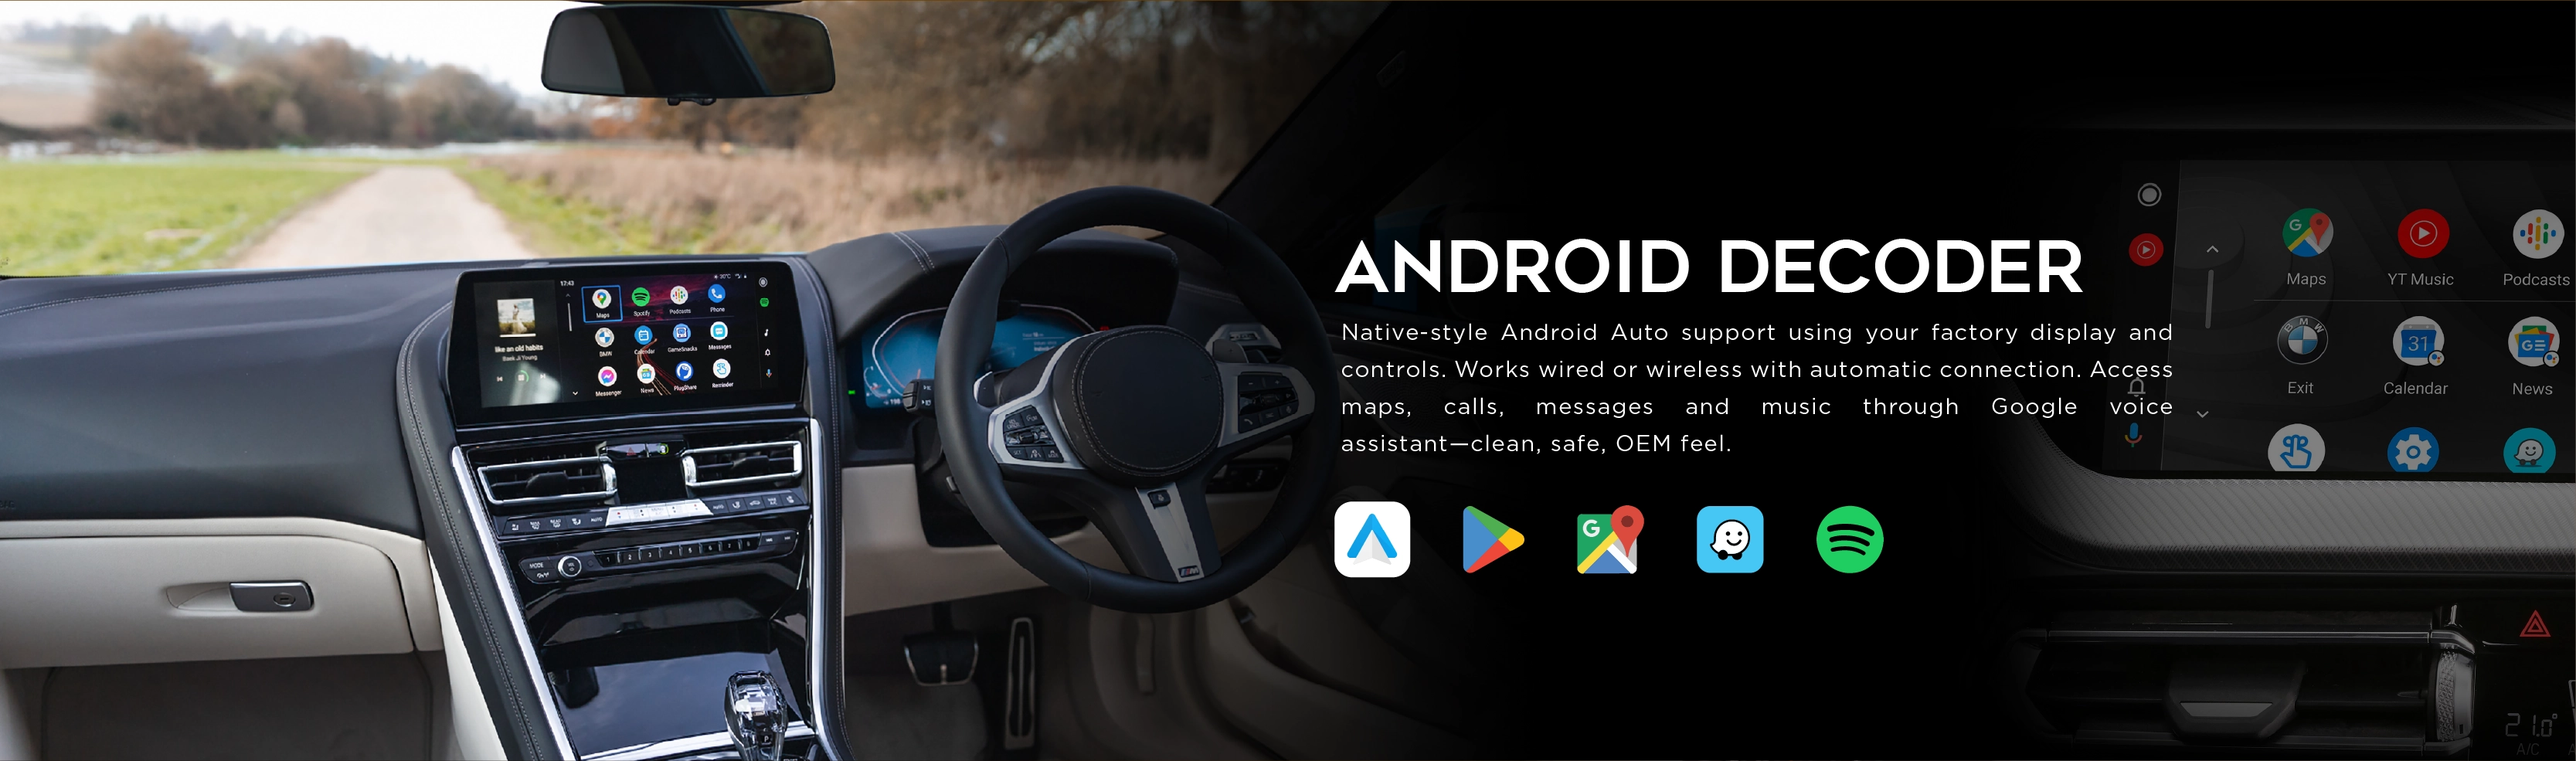
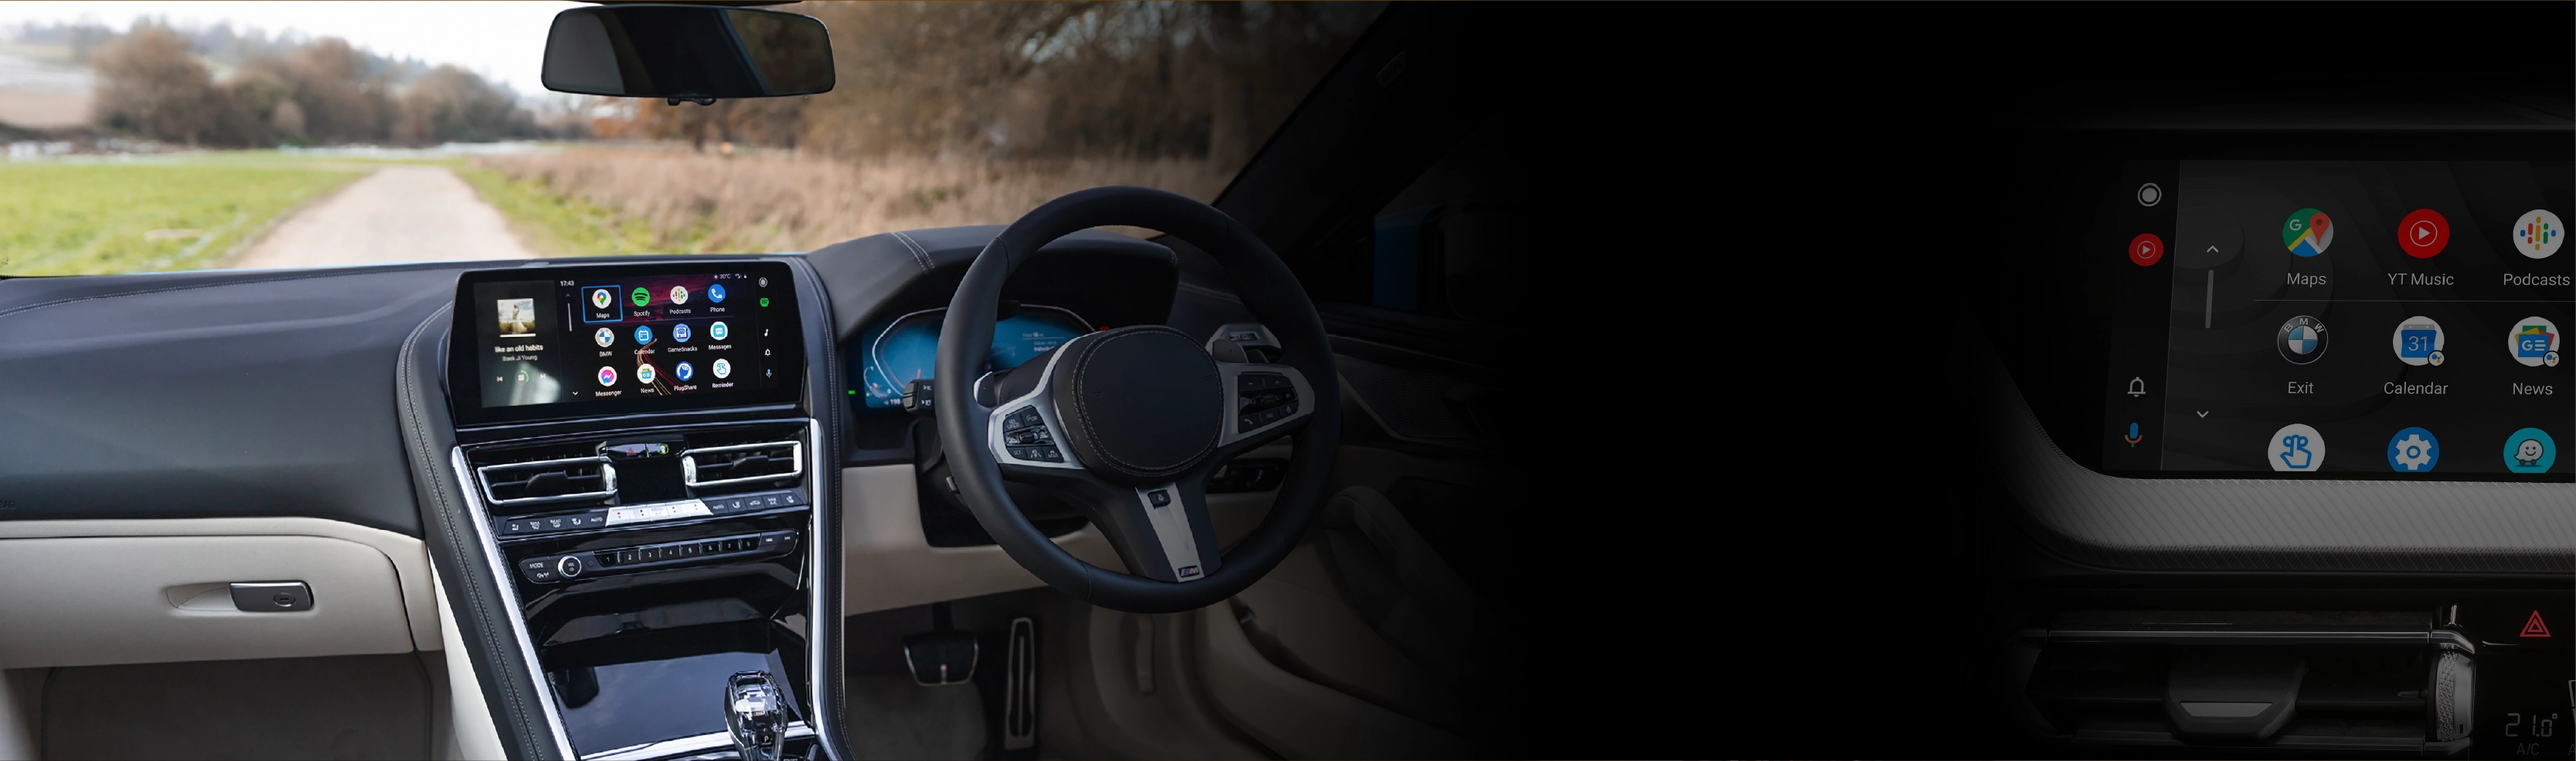
save

diff --git a/src/app/contidecoder/page.js b/src/app/contidecoder/page.js
@@ -65,13 +65,34 @@ export default function ContiDecoderPage() {
           <figure className="relative">
             <Image
               unoptimized
-              src="/contidecoder/pc/conti-decoder-main.webp"
+              src="/contidecoder/pc/CONTI DECODER PAGE 2-01.webp"
               alt="Conti Decoder - Advanced Car Decoding System"
               width={1200}
               height={800}
               className="w-full h-auto"
               priority
             />
+            
+            <div className="hidden md:flex absolute inset-0 flex-col justify-center items-start px-[8%] md:px-[10%] w-[90%] md:w-[55%] lg:w-[48%]">
+              <h1
+                className="font-bold text-white mb-2 lg:mb-4 tracking-wide whitespace-nowrap"
+                style={{ fontFamily: 'Geometos, sans-serif', fontSize: '2.5vw', lineHeight: '1.2' }}
+              >
+                CONTI DECODER &<br />360° INTERFACE
+              </h1>
+              <h2
+                className="text-white mb-3 lg:mb-5"
+                style={{ fontFamily: 'Gotham-Book, Gotham, sans-serif', fontSize: '1.25vw', lineHeight: '1.4' }}
+              >
+                OEM-Grade image decoding and surround-view integration for modern automotive systems.
+              </h2>
+              <p
+                className="text-gray-200 text-justify"
+                style={{ fontFamily: 'Gotham-Book, Gotham, sans-serif', fontSize: '1.15vw', lineHeight: '1.6' }}
+              >
+                Decoder Box is a retrofit CarPlay and Android Auto kit that adds CarPlay and Android Auto functionality to your factory vehicle. The kit provides an OEM look and experience, as it retains the original dashboard display and supports your existing SMEG/MRN controls, including the rotary controller and steering wheel buttons.
+              </p>
+            </div>
             <figcaption className="sr-only">
               Conti Decoder presents the ultimate car decoding solution for modern vehicles.
             </figcaption>
@@ -86,6 +107,20 @@ export default function ContiDecoderPage() {
               height={800}
               className="w-full h-auto"
             />
+            <div className="hidden md:flex absolute inset-0 flex-col justify-center items-start left-[50%] w-[45%] pr-[5%]">
+              <h1
+                className="font-bold text-white mb-2 lg:mb-4 tracking-wide whitespace-nowrap"
+                style={{ fontFamily: 'Geometos, sans-serif', fontSize: '2.5vw', lineHeight: '1.2' }}
+              >
+                ANDROID DECODER
+              </h1>
+              <p
+                className="text-gray-200 text-justify"
+                style={{ fontFamily: 'Gotham-Book, Gotham, sans-serif', fontSize: '1.15vw', lineHeight: '1.6' }}
+              >
+                Native-style Android Auto support using your factory display and controls. Works wired or wireless with automatic connection. Access maps, calls, messages and music through Google voice assistant—clean, safe, OEM feel.
+              </p>
+            </div>
             <figcaption className="sr-only">
               Conti Decoder comprehensive features and capabilities.
             </figcaption>
@@ -100,6 +135,23 @@ export default function ContiDecoderPage() {
               height={800}
               className="w-full h-auto"
             />
+            <div className="hidden md:flex absolute inset-0 flex-col justify-center items-start px-[8%] md:px-[10%] w-[90%] md:w-[60%] lg:w-[55%]">
+              <h1
+                className="font-bold text-white mb-2 lg:mb-4 tracking-wide whitespace-nowrap"
+                style={{ fontFamily: 'Geometos, sans-serif', fontSize: '2.5vw', lineHeight: '1.2' }}
+              >
+                CARPLAY DECODER
+              </h1>
+              <p
+                className="text-gray-200 text-justify w-full"
+                style={{ fontFamily: 'Gotham-Book, Gotham, sans-serif', fontSize: '1.15vw', lineHeight: '1.6' }}
+              >
+                Seamless Apple CarPlay integration with your original screen and controls. Supports wired and wireless connection. Auto-connect every drive and control calls, messages, navigation and music with
+                <span className="block text-right mt-1">
+                  Siri—just like OEM.
+                </span>
+              </p>
+            </div>
             <figcaption className="sr-only">
               Advanced functionality of Conti Decoder system.
             </figcaption>
@@ -114,6 +166,20 @@ export default function ContiDecoderPage() {
               height={800}
               className="w-full h-auto"
             />
+            <div className="hidden md:flex absolute inset-0 flex-col justify-start items-start left-[52%] w-[45%] pr-[5%] pt-[2%]">
+              <h1
+                className="font-bold text-white mb-2 lg:mb-4 tracking-wide whitespace-nowrap"
+                style={{ fontFamily: 'Geometos, sans-serif', fontSize: '2.5vw', lineHeight: '1.2' }}
+              >
+                360° CAM DECODER
+              </h1>
+              <p
+                className="text-gray-200 text-justify w-full"
+                style={{ fontFamily: 'Gotham-Book, Gotham, sans-serif', fontSize: '1.15vw', lineHeight: '1.6' }}
+              >
+                The 360 Interface processes four camera inputs to generate a complete surround-view image, providing drivers with enhanced parking and safety visibility.
+              </p>
+            </div>
             <figcaption className="sr-only">
               Conti Decoder integration with vehicle systems.
             </figcaption>

diff --git a/src/app/dx360/page.js b/src/app/dx360/page.js
@@ -78,13 +78,21 @@ export default function DX360Page() {
       <div className="relative">
         <Image
           unoptimized
-          src={isDesktop ? "/dx360/360 PAGE-01.webp" : "/dx360/PHONE SIZE-01.webp"}
+          src={isDesktop ? "/dx360/pc banner.webp" : "/dx360/PHONE SIZE-01.webp"}
           alt="DX360 - 360° Vision & Safety Upgrades for Every Car - Complete car safety system with 360 camera, dash cam, blind spot monitor and radar sensor"
           width={1200}
           height={800}
           className="w-full h-auto"
           priority
         />
+        <div className="hidden md:flex absolute inset-0 flex-col justify-center items-start px-[8%] md:px-[10%] w-[90%] md:w-[70%] lg:w-[65%]">
+          <h1
+            className="font-bold text-white tracking-wide"
+            style={{ fontFamily: 'Gotham-Bold, Gotham, sans-serif', fontSize: '3vw', lineHeight: '1.2' }}
+          >
+            360° VISION & SAFETY<br />UPGRADES FOR EVERY CAR
+          </h1>
+        </div>
       </div>
 
       <Image
